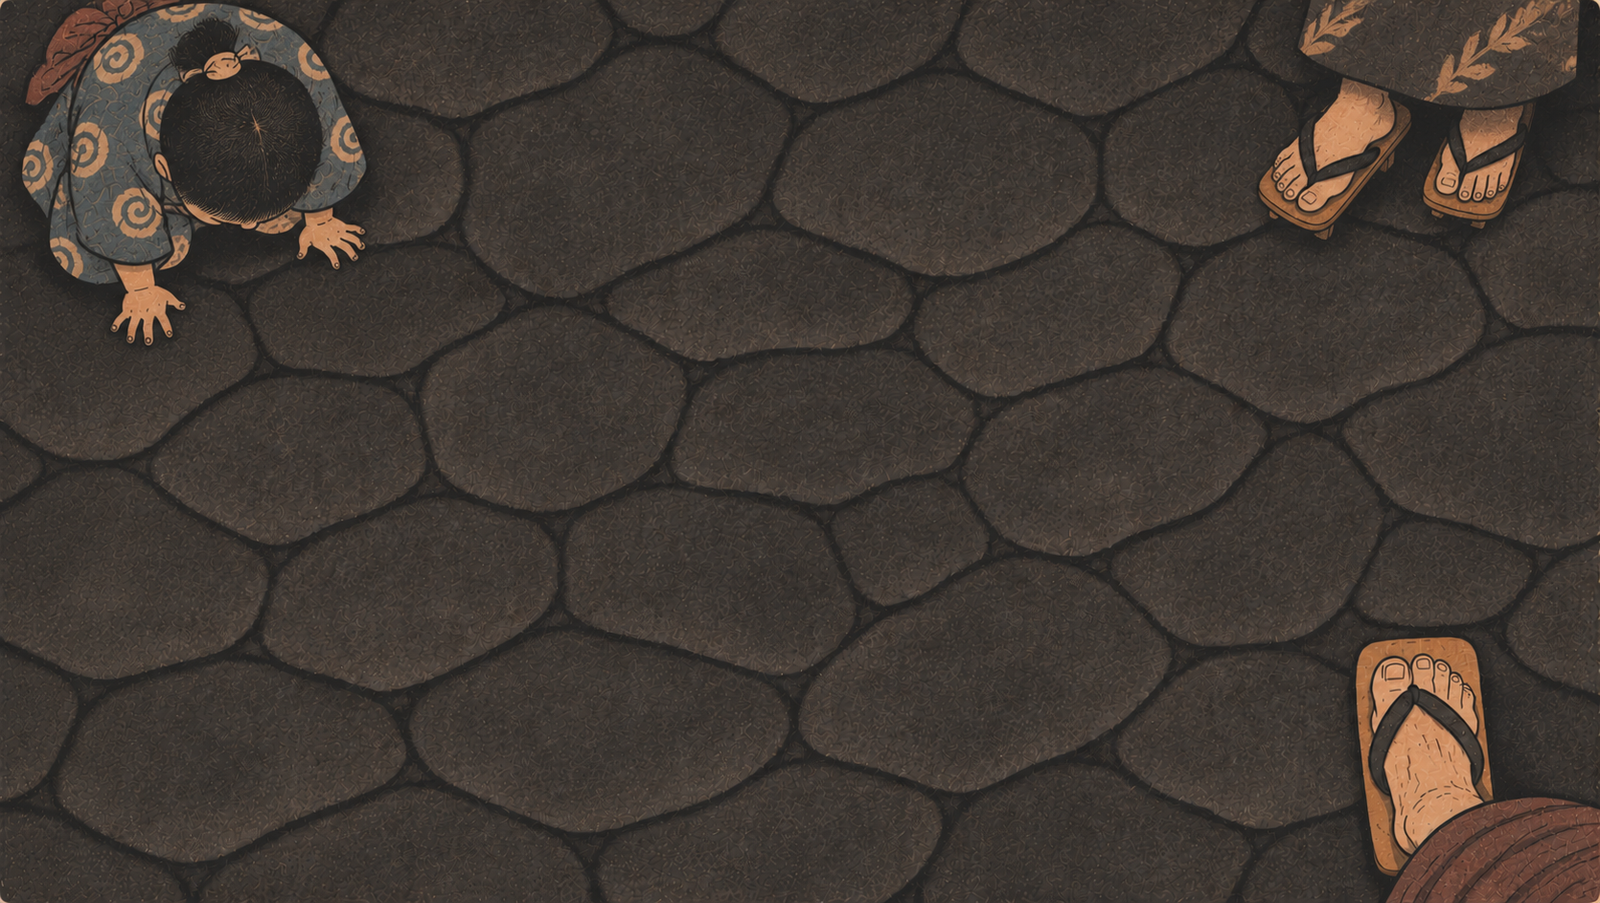
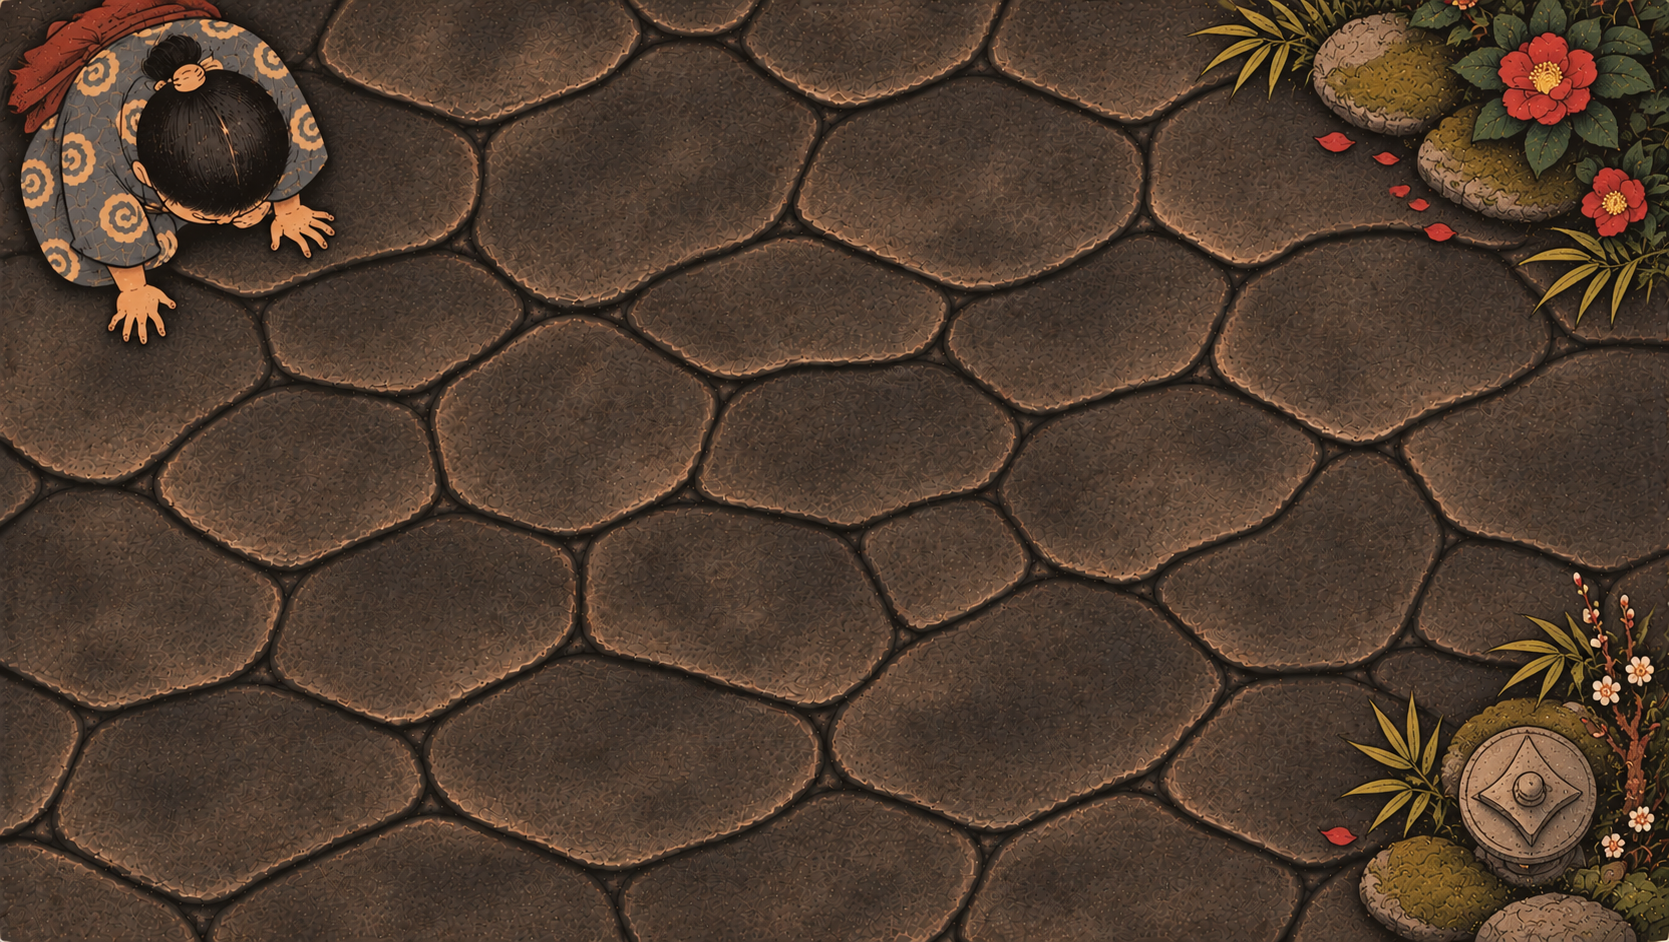
ADD: Yogake forced fights lunge, Fuma smoke, Inari foxfire [BoardView, SignatureFx]
- ATTACK events in the replay lunge like a normal attack
- the clicked attack is not replayed twice
- puff() shared with Ketto's smoke, foxfire() for Inari

diff --git a/src/main/java/fr/onishintan/ui/match/SignatureFx.java b/src/main/java/fr/onishintan/ui/match/SignatureFx.java
@@ -136,20 +136,7 @@ final class SignatureFx {
         clash(a, (midX - boxA.getCenterX()) * 0.7, (midY - boxA.getCenterY()) * 0.7);
         clash(b, (midX - boxB.getCenterX()) * 0.7, (midY - boxB.getCenterY()) * 0.7);
 
-        ImageView smoke = BoardView.image("/images/fx/black-smoke.png");
-        smoke.setEffect(new ColorAdjust(0, 0, 1, 0));   // brightened to white
-        smoke.setFitWidth(240);
-        smoke.setPreserveRatio(true);
-        smoke.setMouseTransparent(true);
-        smoke.setOpacity(0);
-        smoke.relocate(midX - 120, midY - 140);   // above the two minions
-        layer.getChildren().add(smoke);
-        Timeline puff = new Timeline(
-                new KeyFrame(Duration.millis(250), new KeyValue(smoke.opacityProperty(), 0)),
-                new KeyFrame(Duration.millis(400), new KeyValue(smoke.opacityProperty(), 1)),
-                new KeyFrame(Duration.millis(900), new KeyValue(smoke.opacityProperty(), 0), new KeyValue(smoke.translateYProperty(), -40)));
-        puff.setOnFinished(e -> layer.getChildren().remove(smoke));
-        puff.play();
+        puff(layer, midX, midY);   // above the two minions
         return 950;
     }
 
@@ -159,6 +146,42 @@ final class SignatureFx {
                 new KeyFrame(Duration.millis(250), new KeyValue(minion.translateXProperty(), dx), new KeyValue(minion.translateYProperty(), dy)),
                 new KeyFrame(Duration.millis(650), new KeyValue(minion.translateXProperty(), dx), new KeyValue(minion.translateYProperty(), dy)),
                 new KeyFrame(Duration.millis(900), new KeyValue(minion.translateXProperty(), 0), new KeyValue(minion.translateYProperty(), 0))).play();
+    }
+
+
+    /** A white smoke bursts above (x, y) and drifts up (Kettō's clash, Fūma Kotarō revealing himself). */
+    static void puff(Pane layer, double x, double y) {
+        ImageView smoke = BoardView.image("/images/fx/black-smoke.png");
+        smoke.setEffect(new ColorAdjust(0, 0, 1, 0));   // brightened to white
+        smoke.setFitWidth(240);
+        smoke.setPreserveRatio(true);
+        smoke.setMouseTransparent(true);
+        smoke.setOpacity(0);
+        smoke.relocate(x - 120, y - 140);
+        layer.getChildren().add(smoke);
+        Timeline rise = new Timeline(
+                new KeyFrame(Duration.millis(250), new KeyValue(smoke.opacityProperty(), 0)),
+                new KeyFrame(Duration.millis(400), new KeyValue(smoke.opacityProperty(), 1)),
+                new KeyFrame(Duration.millis(900), new KeyValue(smoke.opacityProperty(), 0), new KeyValue(smoke.translateYProperty(), -40)));
+        rise.setOnFinished(e -> layer.getChildren().remove(smoke));
+        rise.play();
+    }
+
+    /** Inari Ōkami: a blue foxfire flares on the minion as it calls a kitsune. */
+    static void foxfire(Pane layer, Node minion) {
+        Bounds box = minion.getBoundsInParent();
+        Circle fire = new Circle(box.getCenterX(), box.getCenterY(), 30, Color.web("#7fd4ff", 0.7));
+        fire.setEffect(new DropShadow(30, Color.web("#3aa0ff")));
+        fire.setMouseTransparent(true);
+        layer.getChildren().add(fire);
+        ScaleTransition grow = new ScaleTransition(Duration.millis(600), fire);
+        grow.setToX(3);
+        grow.setToY(3);
+        FadeTransition fade = new FadeTransition(Duration.millis(600), fire);
+        fade.setToValue(0);
+        ParallelTransition all = new ParallelTransition(grow, fade);
+        all.setOnFinished(e -> layer.getChildren().remove(fire));
+        all.play();
     }
 
     /** Ninja's Shuriken: a steel star spins from `from` (your hero) to `to`, sparks where it hits. */

diff --git a/src/main/java/fr/onishintan/ui/match/BoardView.java b/src/main/java/fr/onishintan/ui/match/BoardView.java
@@ -469,7 +469,7 @@ public class BoardView extends Pane {
     }
 
     /** How long one step of effects plays before the next one starts, and how long a trap takes to flip, be read and start its cut. */
-    private static final double STEP_MS = 450, TRAP_STEP_MS = 900;
+    private static final double STEP_MS = 450, TRAP_STEP_MS = 900, LUNGE_MS = 700;
     /** How long an effect's banner shows before the effect itself plays. */
     private static final double TRIGGER_MS = 1000;
 
@@ -497,6 +497,14 @@ public class BoardView extends Pane {
             return 0;   // an Oath: its reward already has its stamp and banner
         }
         EventBanner.show(table, card.getNameKanji(), card.getNameRomaji(), what, colour);
+        Node node = nodes.get(source);
+        if (node != null && card.getId().equals("fuma-kotaro")) {
+            Bounds box = node.getBoundsInParent();
+            SignatureFx.puff(live, box.getCenterX(), box.getCenterY());   // Yogake: he vanishes into smoke
+        }
+        if (node != null && card.getId().equals("inari-okami")) {
+            SignatureFx.foxfire(live, node);   // calls a kitsune at the end of the turn
+        }
         return TRIGGER_MS;
     }
 
@@ -551,6 +559,13 @@ public class BoardView extends Pane {
             }
             case MINION_REMOVED -> SignatureFx.vanish(node);   // Kamikakushi: spirited away
             case FATIGUE -> EventBanner.show(table, "疲労", "Fatigue", event.amount() + " damage: the deck is empty", Color.web("#8b0000"));
+            case ATTACK -> {
+                Node attacker = nodes.get(event.source());
+                if (attacker != null) {
+                    Fx.attack(attacker, node, () -> { });   // Yogake: each enemy minion lunges at another one
+                }
+                return LUNGE_MS;
+            }
             default -> {
                 return 0;   // nothing to show (a card added to the hand flies in after the redraw)
             }
@@ -1544,7 +1559,9 @@ public void passTo(String name, Runnable onReady) {
             replay(events.subList(0, attackAt), 0, 0, () -> lunge(attacker, hit, after, then));
             return;
         }
-        lunge(attacker, target, events, then);
+        List<GameEvent> rest = new ArrayList<>(events);
+        rest.remove(attackAt);   // this attack lunges now; any other ATTACK (Yogake's forced fights) lunges in the replay
+        lunge(attacker, target, rest, then);
     }
 
     /** The lunge at `target`, then on impact the hits, deaths and anything else the attack did, step by step, then the redraw. */
